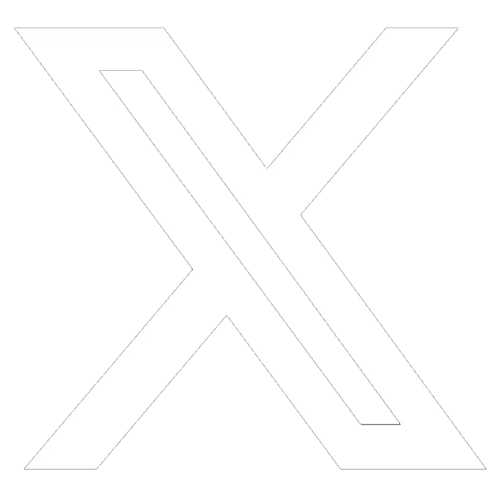
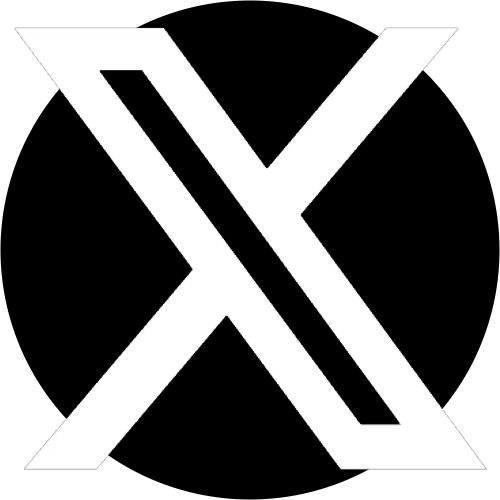
update

diff --git a/index.html b/index.html
@@ -142,8 +142,8 @@
           <a href="https://t.me" target="_blank" rel="noopener" class="h-10 w-10 rounded-full overflow-hidden ring-2 ring-mustard/40 hover:ring-mustard transition">
             <img src="tg.png" alt="Telegram" class="h-full w-full object-cover" />
           </a>
-          <a href="https://x.com/MoonCow_rbh" target="_blank" rel="noopener" class="h-10 w-10 rounded-full bg-cream flex items-center justify-center ring-2 ring-mustard/40 hover:ring-mustard transition p-2">
-            <img src="x.png" alt="X / Twitter" class="h-full w-full object-contain" />
+          <a href="https://x.com/MoonCow_rbh" target="_blank" rel="noopener" class="h-10 w-10 rounded-full overflow-hidden ring-2 ring-mustard/40 hover:ring-mustard transition">
+            <img src="x.png" alt="X / Twitter" class="h-full w-full object-cover" />
           </a>
           <a href="https://app.uniswap.org/swap?chain=robinhood&outputCurrency=0x18201887f938e1308d1e7278cceee216fcd5f810" target="_blank" rel="noopener" class="btn-gold hidden sm:inline-flex items-center rounded-full px-5 py-2 font-extrabold text-sm uppercase tracking-wide transition">
             Buy Now
@@ -305,7 +305,7 @@
             <span class="font-bold">Telegram</span>
           </a>
           <a href="https://x.com/MoonCow_rbh" target="_blank" rel="noopener" class="glass flex items-center gap-3 rounded-full px-5 py-3 hover:ring-1 hover:ring-mustard transition">
-            <img src="x.png" alt="" class="h-8 w-8 rounded-full bg-cream p-1.5" />
+            <img src="x.png" alt="" class="h-8 w-8 rounded-full" />
             <span class="font-bold">Twitter / X</span>
           </a>
           <a href="https://app.uniswap.org/swap?chain=robinhood&outputCurrency=0x18201887f938e1308d1e7278cceee216fcd5f810" target="_blank" rel="noopener" class="btn-gold rounded-full px-6 py-3 font-extrabold uppercase">
